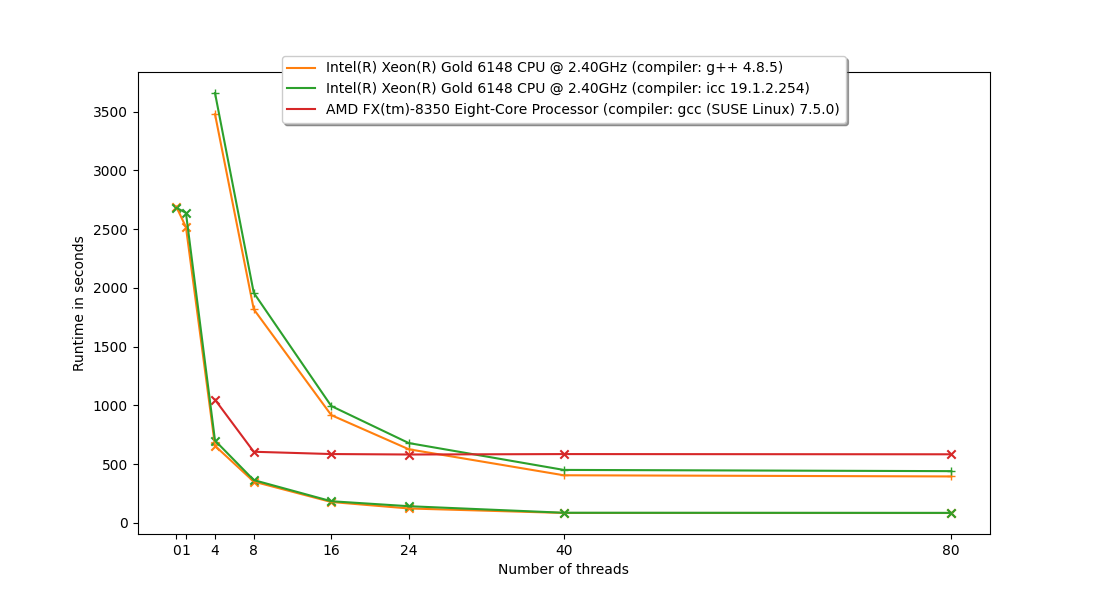
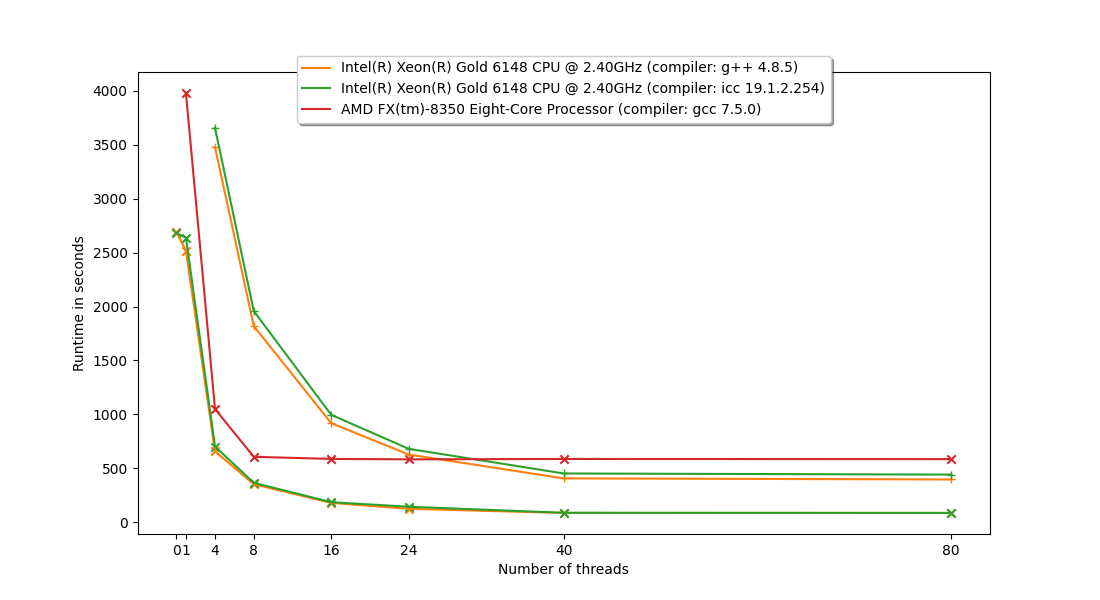
Add more results.

diff --git a/README.md b/README.md
@@ -45,12 +45,13 @@ The code produces an 2048x2048 image as follows:
 | Intel(R) Xeon(R) Gold 6148 CPU @ 2.40GHz | Q1 2018 | OpenMP with 4 threads | 702 | 3659  | icc 19.1.2.254 |
 | Intel(R) Xeon(R) Gold 6148 CPU @ 2.40GHz | Q1 2018 | OpenMP with 1 thread | 2639 |  | icc 19.1.2.254 |
 | Intel(R) Xeon(R) Gold 6148 CPU @ 2.40GHz | Q1 2018 | none | 2683 |  | icc 19.1.2.254 |
-| AMD FX(tm)-8350 Eight-Core Processor | Q1 2018 | OpenMP with 80 threads | 585 |  | gcc (SUSE Linux) 7.5.0 |
-| AMD FX(tm)-8350 Eight-Core Processor | Q1 2018 | OpenMP with 40 threads | 586 |  | gcc (SUSE Linux) 7.5.0 |
-| AMD FX(tm)-8350 Eight-Core Processor | Q1 2018 | OpenMP with 24 threads | 583 |  | gcc (SUSE Linux) 7.5.0 |
-| AMD FX(tm)-8350 Eight-Core Processor | Q1 2018 | OpenMP with 16 threads | 587 |  | gcc (SUSE Linux) 7.5.0 |
-| AMD FX(tm)-8350 Eight-Core Processor | Q1 2018 | OpenMP with 8 threads | 606 |  | gcc (SUSE Linux) 7.5.0 |
-| AMD FX(tm)-8350 Eight-Core Processor | Q1 2018 | OpenMP with 4 threads | 1050 |  | gcc (SUSE Linux) 7.5.0 |
+| AMD FX(tm)-8350 Eight-Core Processor | Q1 2018 | OpenMP with 80 threads | 585 |  | gcc 7.5.0 |
+| AMD FX(tm)-8350 Eight-Core Processor | Q1 2018 | OpenMP with 40 threads | 586 |  | gcc 7.5.0 |
+| AMD FX(tm)-8350 Eight-Core Processor | Q1 2018 | OpenMP with 24 threads | 583 |  | gcc 7.5.0 |
+| AMD FX(tm)-8350 Eight-Core Processor | Q1 2018 | OpenMP with 16 threads | 587 |  | gcc 7.5.0 |
+| AMD FX(tm)-8350 Eight-Core Processor | Q1 2018 | OpenMP with 8 threads | 606 |  | gcc 7.5.0 |
+| AMD FX(tm)-8350 Eight-Core Processor | Q1 2018 | OpenMP with 4 threads | 1050 |  | gcc 7.5.0 |
+| AMD FX(tm)-8350 Eight-Core Processor | Q1 2018 | OpenMP with 1 thread | 3981 |  | gcc 7.5.0 |
 
 In the plot below, `x` depicts the runtime when the program is compiled in Release mode, and `+` in Debug mode.
 
